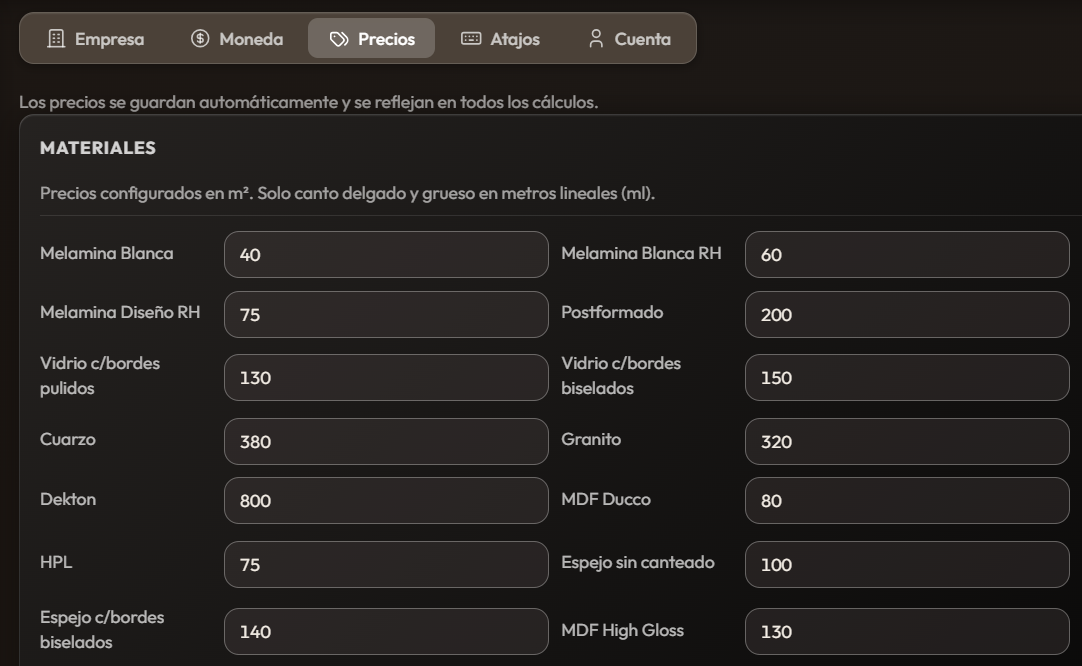
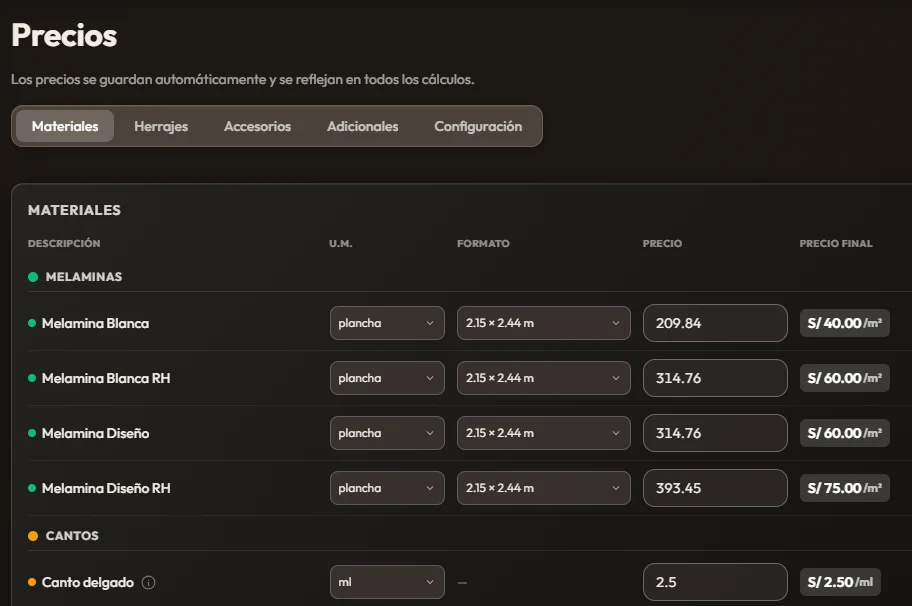
estilo: recorte visual del panel Precios para igualar altura de la galeria

diff --git a/index.html b/index.html
@@ -490,6 +490,9 @@ header{
   width:100%;height:auto;border-radius:10px;object-fit:cover;
   transition:transform .4s ease;
 }
+.tab-visual-wrap img.tab-crop-bottom{
+  aspect-ratio:2.07 / 1;object-fit:cover;object-position:center top;
+}
 .tab-visual-wrap:hover img{transform:scale(1.015);}
 .tab-info-card{
   background:var(--paper);border-radius:16px;padding:30px 26px;border:1px solid var(--border-light);
@@ -1075,7 +1078,7 @@ footer{background:#0B0705;color:#85715B;padding:44px 0;font-size:14px;border-top
     <!-- Panel 5: Precios -->
     <div class="tab-panel" id="tab-precios">
       <div class="tab-visual-wrap">
-        <img src="public/img/gallery/precios.webp" alt="Personalización de precios de materiales, tableros, acabados y accesorios en Cotizador Modulax">
+        <img src="public/img/gallery/precios.webp" class="tab-crop-bottom" alt="Personalización de precios de materiales, tableros, acabados y accesorios en Cotizador Modulax">
       </div>
       <div class="tab-info-card">
         <h3>Tus precios 100% personalizados</h3>
